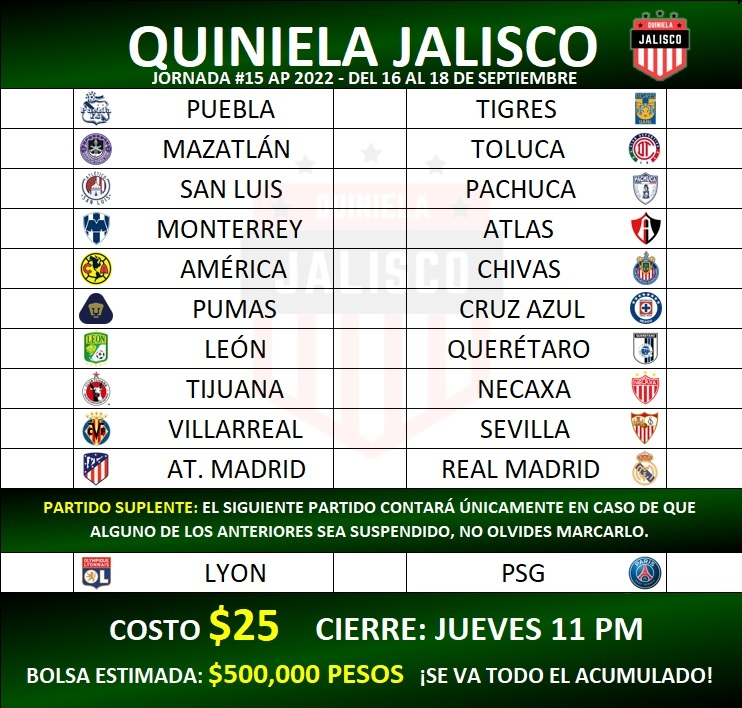
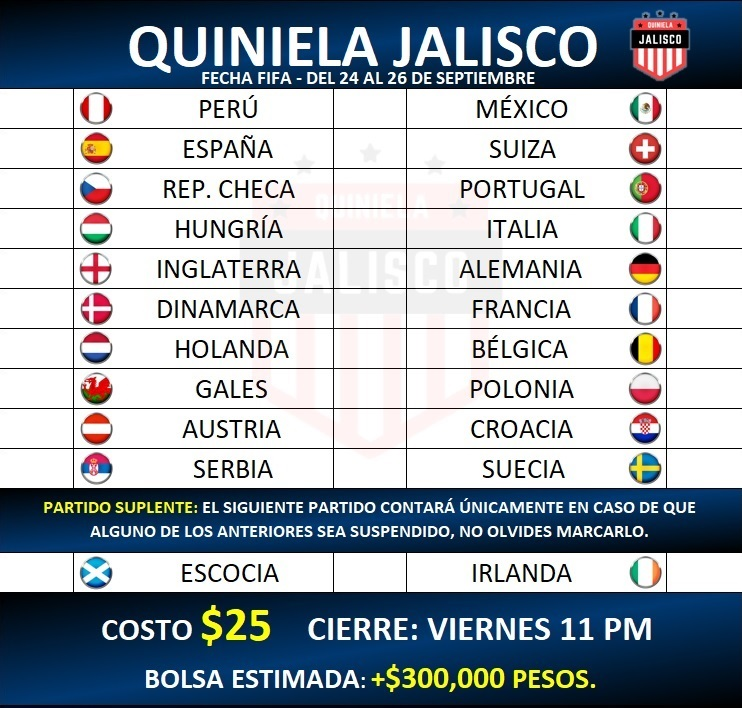
Fecha FIFA

diff --git a/index.html b/index.html
@@ -6,7 +6,7 @@
     <meta name="viewport" content="width=device-width, initial-scale=1.0, user-scalable=no">
     <meta name="description" content="Quiniela Liga MX - ¡Registra aquí tus quinielas! - Quiniela Jalisco">
     <meta name="keywords" content="Quiniela, Liga MX, Apostar, Pronósticos">
-    <title>Quiniela Liga MX Jornada 15</title>
+    <title>Quiniela Liga MX - Fecha FIFA</title>
     <link href="https://fonts.googleapis.com/css2?family=Roboto&display=swap" rel="stylesheet">
     <link rel="stylesheet" href="https://cdn.jsdelivr.net/npm/bootstrap@5.2.0/dist/css/bootstrap.min.css" crossorigin="anonymous">
     <link href="https://fonts.googleapis.com/icon?family=Material+Icons" rel="stylesheet">

diff --git a/11/styles11.css b/11/styles11.css
@@ -288,13 +288,13 @@ h6{
 }
 
 #cantidad:before{
-    content:'$500,000 pesos ';
+    content:'+$300,000 pesos ';
     color: yellow;
     white-space:pre;
 }
 
 #sub1:before{
-    content:'\A ¡Se reparte todo el acumulado!';
+    content:'';
     color: white;
     white-space:pre;
 }
